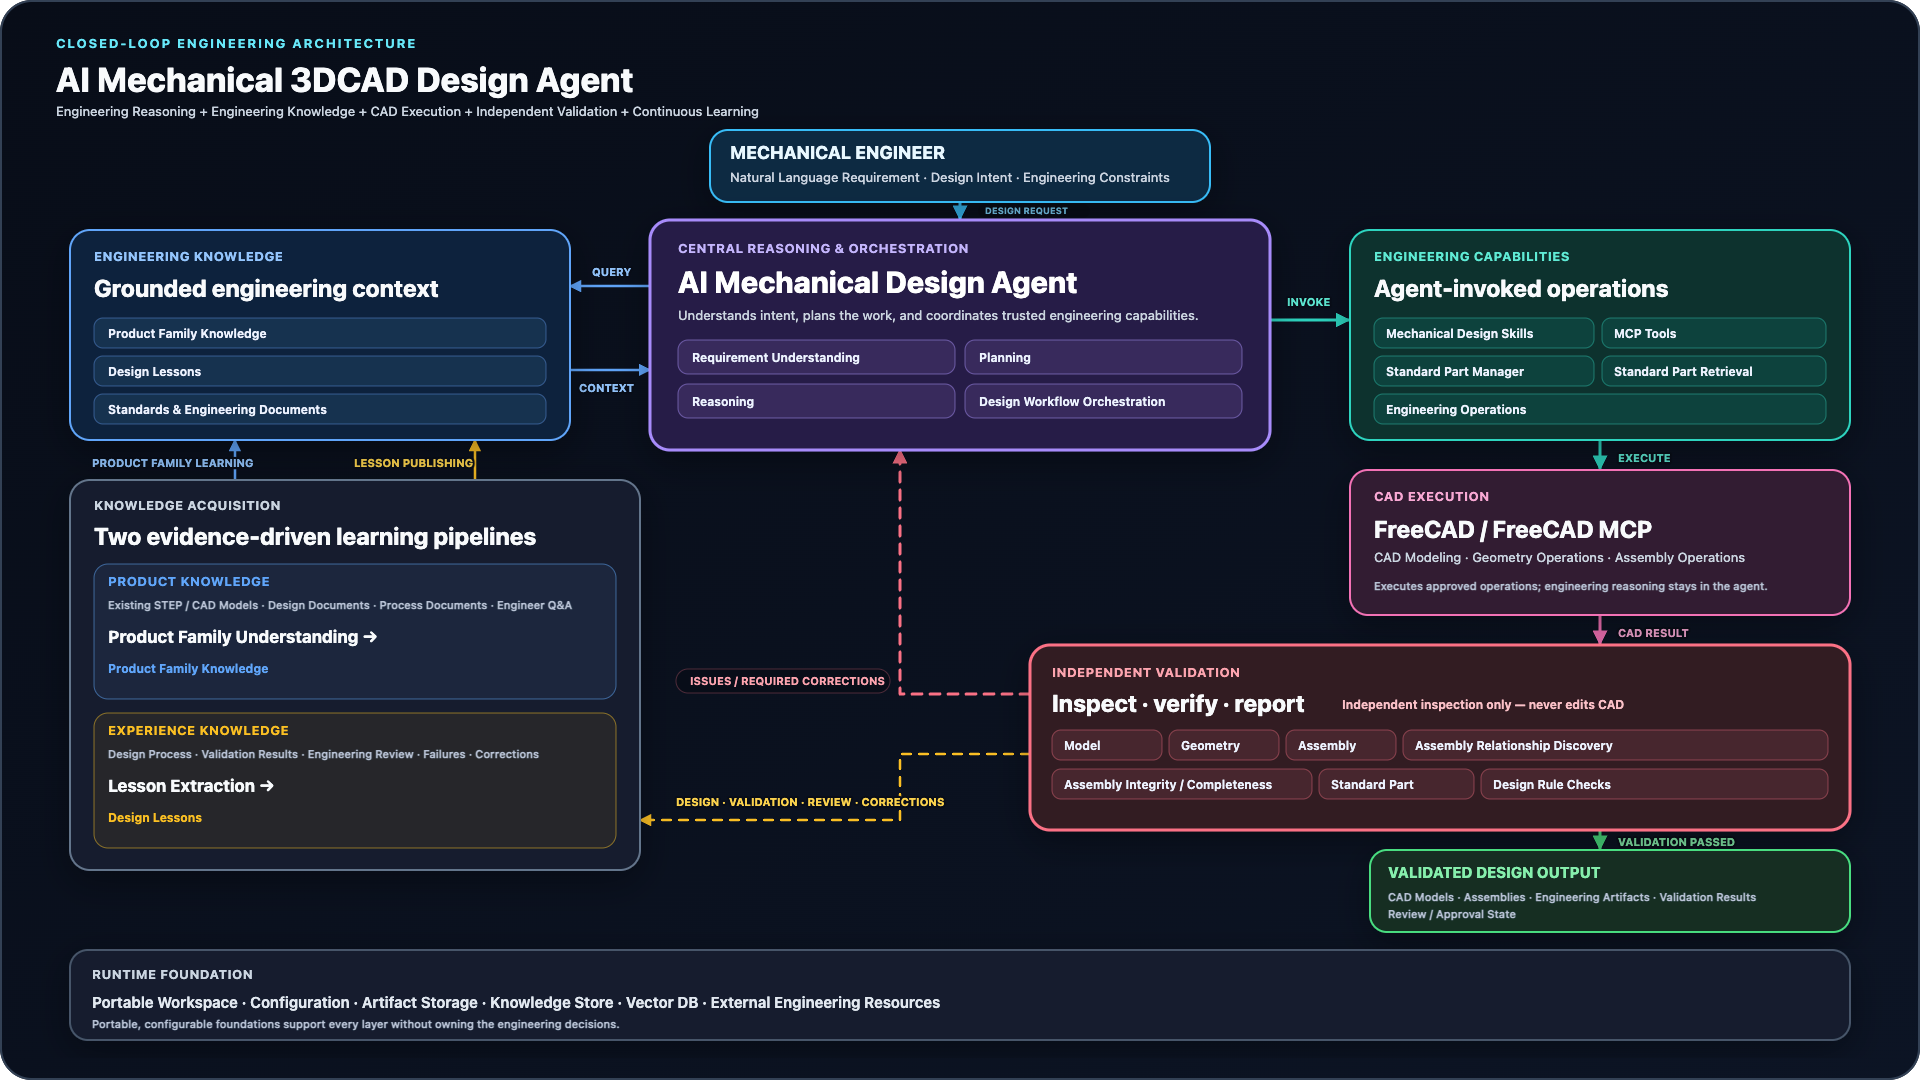
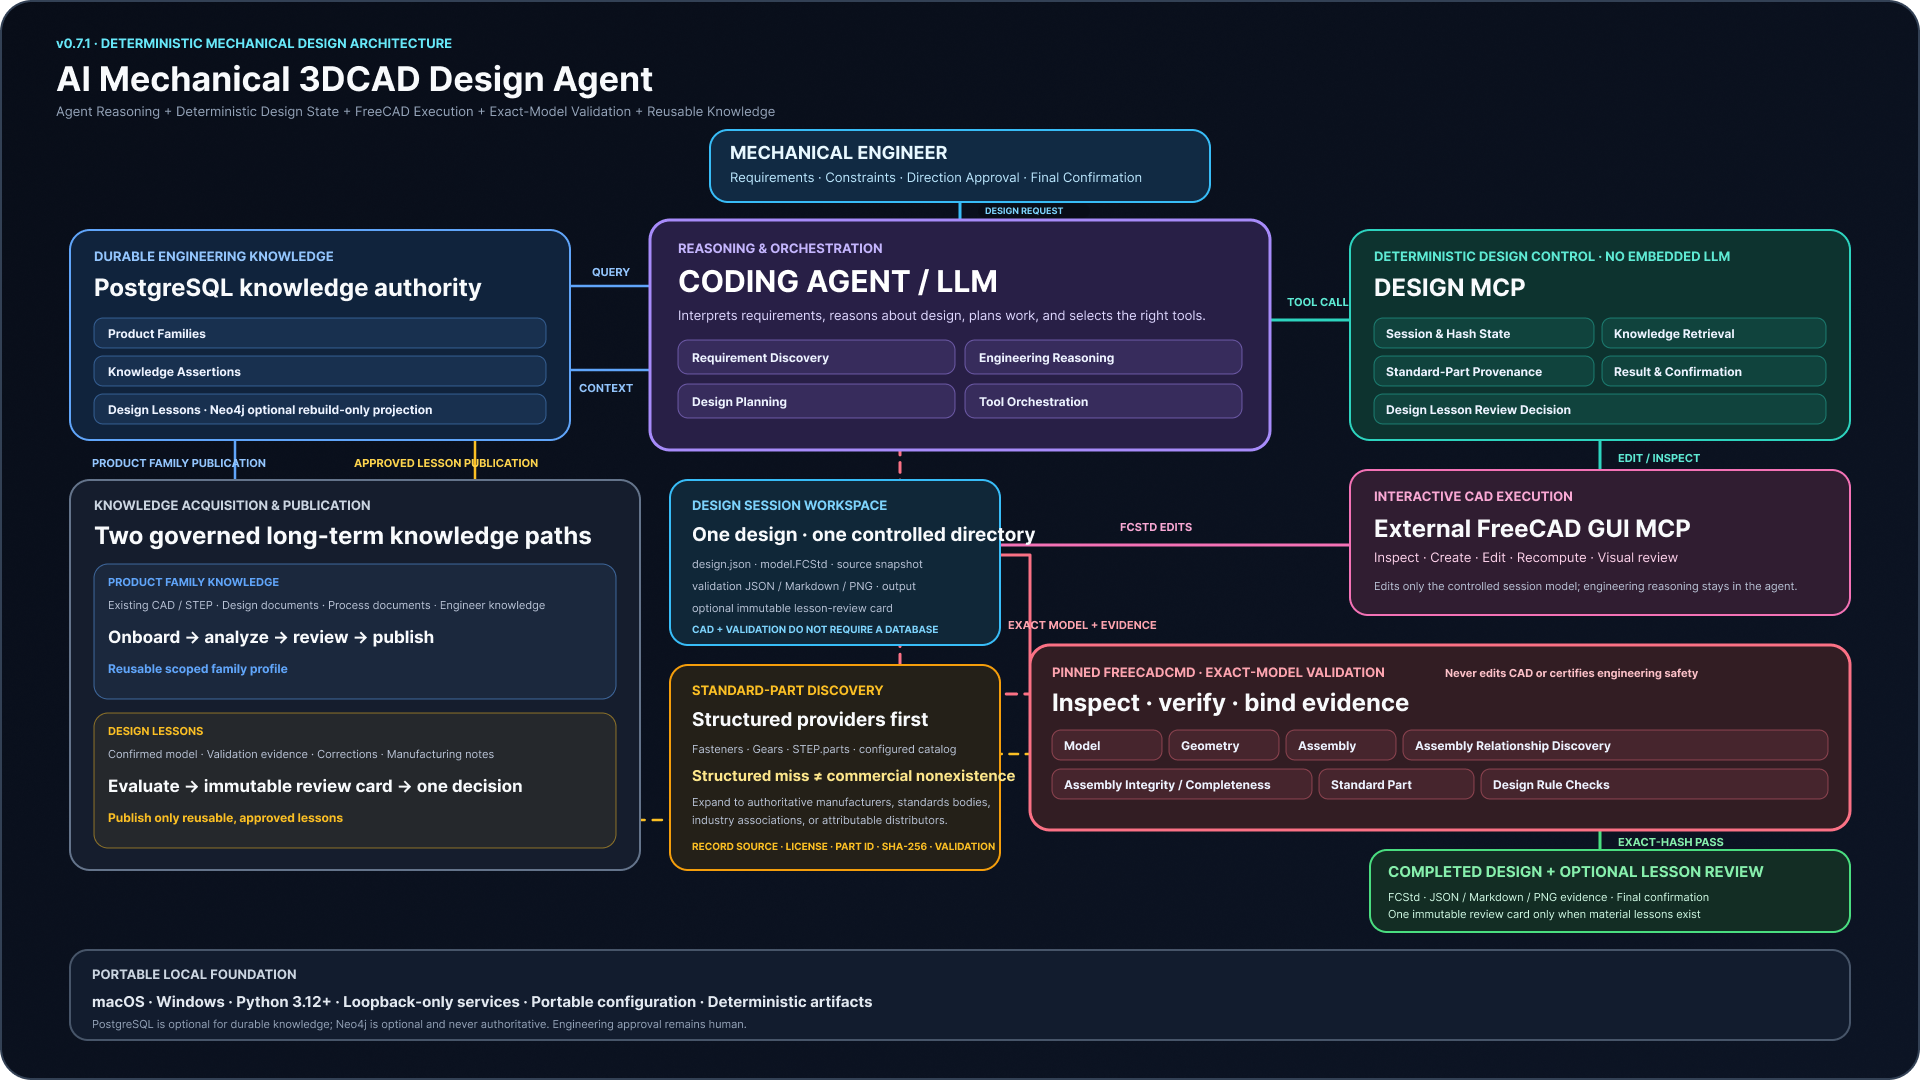
docs: update architecture diagram for v0.7.1

diff --git a/tests/test_public_release_contract.py b/tests/test_public_release_contract.py
@@ -19,7 +19,7 @@ from public_release_helpers import (
 PROJECT_ROOT = Path(__file__).resolve().parents[1]
 PUBLIC_README_ASSETS = {
     Path("docs/assets/ai-mechanical-design-agent-architecture-v2.png"):
[2 lines of base64/hex data omitted]
     Path("docs/assets/ai-mechanical-design-showcase.gif"):
[1 lines of base64/hex data omitted]
 }

diff --git a/docs/superpowers/plans/2026-09-01-v0.7.1-figma-architecture.md b/docs/superpowers/plans/2026-09-01-v0.7.1-figma-architecture.md
@@ -1,0 +1,107 @@
+# v0.7.1 Figma Architecture Diagram Implementation Plan
+
+> **For agentic workers:** REQUIRED SUB-SKILL: Use superpowers:subagent-driven-development (recommended) or superpowers:executing-plans to implement this plan task-by-task. Steps use checkbox (`- [ ]`) syntax for tracking.
+
+**Goal:** Publish a complete editable Figma architecture diagram and matching GitHub README asset for v0.7.1.
+
+**Architecture:** Preserve the existing Figma frames and build a new editable V3 frame in the same file. Export that exact frame to the repository's stable PNG path, update its integrity contract, validate the public projection, and publish the documentation commit without changing the software version.
+
+**Tech Stack:** Figma Plugin API, PNG export, Git, pytest
+
+**Spec:** `docs/superpowers/specs/2026-09-01-v0.7.1-figma-architecture-design.md`
+
+## Global Constraints
+
+- Keep the public product version at `0.7.1`.
+- Preserve the existing V1 and V2 Figma frames.
+- Use editable Figma frames, text, and vectors for V3. An imported SVG node
+  tree is acceptable when the Starter-plan MCP quota blocks further Plugin API
+  mutations.
+- Export exactly 1920×1080 to the existing public PNG path.
+- Do not add runtime dependencies or change product behavior.
+- Do not create or move a GitHub release tag.
+
+---
+
+### Task 1: Build and verify the editable V3 Figma frame
+
+**Files:**
+- External: Figma file `mIvMHJ1cGoA5mmk9YN3j8L`
+
+**Interfaces:**
+- Consumes: approved architecture content from the specification and the existing V2 visual conventions.
+- Produces: one top-level `README Architecture V3 — v0.7.1 — 1920×1080` frame and its Figma node ID.
+
+- [ ] **Step 1: Inspect the existing page, V2 frame, fonts, and top-level positions**
+
+  Use read-only Figma metadata and Plugin API inspection. Confirm the V2 frame is `11:2`, the page is `0:1`, and identify available Inter font style names.
+
+- [ ] **Step 2: Clone V2 as a V3 skeleton**
+
+  Clone `11:2`, place the clone to the right of all existing top-level frames, rename it to the required V3 name, mark it as a placeholder, and return every mutated or created node ID.
+
+- [ ] **Step 3: Update existing sections in bounded Figma calls**
+
+  Rewrite the engineer, coding-agent, durable-knowledge, Design MCP, FreeCAD GUI MCP, validation, output, and runtime text using the nodes' existing fonts. Keep every text block inside its frame and return all mutated IDs.
+
+- [ ] **Step 4: Add the design-session and standard-part sections**
+
+  Create native frame and text nodes in the center-lower space for the session workspace and two-stage standard-part discovery. Match the cloned V2 colors and typography.
+
+- [ ] **Step 5: Add labeled control and evidence connectors**
+
+  Create editable vector or line nodes for request, invoke, edit, validate, correction, retrieval, evidence, and lesson-publication flows. Keep arrows behind content cards.
+
+- [ ] **Step 6: Validate the V3 frame**
+
+  Use Figma metadata to verify one 1920×1080 V3 frame, expected named sections, no missing children, and no placeholder state. Use a full-resolution screenshot to verify legibility, no overlaps, no clipping, and complete connectors.
+
+### Task 2: Export and bind the public README asset
+
+**Files:**
+- Modify: `docs/assets/ai-mechanical-design-agent-architecture-v2.png`
+- Modify: `README.md`
+- Modify: `tests/test_public_release_contract.py`
+
+**Interfaces:**
+- Consumes: the verified V3 Figma node ID.
+- Produces: the exact public PNG and its SHA-256 contract.
+
+- [ ] **Step 1: Export the verified V3 frame**
+
+  Download the Figma node export without overriding its configured natural 1920×1080 size and write it to the stable public PNG path.
+
+- [ ] **Step 2: Verify dimensions and calculate SHA-256**
+
+  Run `sips -g pixelWidth -g pixelHeight docs/assets/ai-mechanical-design-agent-architecture-v2.png` and `shasum -a 256 docs/assets/ai-mechanical-design-agent-architecture-v2.png`. Require exactly 1920×1080.
+
+- [ ] **Step 3: Update the expected public asset digest**
+
+  Replace only the architecture PNG digest in `PUBLIC_README_ASSETS` inside `tests/test_public_release_contract.py`.
+
+### Task 3: Validate and publish the documentation update
+
+**Files:**
+- Verify: `README.md`
+- Verify: `docs/ARCHITECTURE.md`
+- Verify: `public-repository.toml`
+
+**Interfaces:**
+- Consumes: the updated PNG and SHA-256 contract.
+- Produces: a tested commit on `main` with no version or tag change.
+
+- [ ] **Step 1: Run focused tests**
+
+  Run `uv run --offline --frozen --group test pytest tests/test_public_documentation.py tests/test_public_release_contract.py -q` and require all tests to pass.
+
+- [ ] **Step 2: Run the supported offline suite**
+
+  Run `uv run --offline --frozen --group test pytest -q` and require no unexpected failures.
+
+- [ ] **Step 3: Inspect the release diff**
+
+  Run `git diff --check`, `git status --short`, verify `pyproject.toml` remains `0.7.1`, and verify `v0.7.1` still points to its original commit.
+
+- [ ] **Step 4: Commit, merge, and push**
+
+  Commit the branch as `docs: update architecture diagram for v0.7.1`, merge it into local `main`, rerun the focused verification on `main`, and push `main` to `origin` without creating a tag or release.

diff --git a/docs/superpowers/specs/2026-09-01-v0.7.1-figma-architecture-design.md b/docs/superpowers/specs/2026-09-01-v0.7.1-figma-architecture-design.md
@@ -1,0 +1,72 @@
+# v0.7.1 Figma Architecture Diagram Design
+
+## Goal
+
+Publish one complete, editable Figma architecture diagram that accurately
+describes AI Mechanical 3DCAD Design Agent v0.7.1 and replaces the stale public
+README architecture image without changing the software release version.
+
+## Source and preservation
+
+- Reuse the existing Figma design file `mIvMHJ1cGoA5mmk9YN3j8L`.
+- Preserve the existing V1 and V2 frames unchanged as historical sources.
+- Add a new top-level Figma frame named
+  `README Architecture V3 — v0.7.1 — Final Editable`.
+- Import the reviewed SVG as editable Figma text and vector nodes when the
+  Starter-plan MCP quota prevents completing the frame through Plugin API
+  mutations. Preserve incomplete V3 attempts as clearly named drafts.
+- Keep the existing dark visual language and 1920×1080 export size.
+
+## Architecture content
+
+The diagram must distinguish responsibilities rather than presenting every MCP
+tool as an independent subsystem:
+
+1. The mechanical engineer supplies requirements, constraints, direction
+   approval, and final confirmation.
+2. The coding agent or LLM performs requirement interpretation, engineering
+   reasoning, planning, and orchestration.
+3. Design MCP owns deterministic session state, knowledge retrieval,
+   standard-part registration, result recording, confirmation state, and
+   Design Lesson review decisions. It does not contain an LLM.
+4. External FreeCAD GUI MCP performs interactive CAD inspection and edits.
+5. Pinned FreeCADCmd performs controlled exact-model validation and never
+   replaces engineering judgment.
+6. Each design session keeps `design.json`, one authoritative `model.FCStd`,
+   source snapshots, validation evidence, outputs, and an optional immutable
+   lesson-review card together in its workspace.
+7. Structured standard-part providers are searched first; a structured miss
+   can expand to authoritative manufacturers, standards bodies, industry
+   associations, or attributable authorized distributors.
+8. PostgreSQL stores only Product Families, Knowledge Assertions, and Design
+   Lessons. Neo4j is an optional rebuild-only projection.
+9. Validation failures return to the agent for correction. Final confirmation
+   triggers automatic Design Lesson evaluation and, only when material lessons
+   exist, one explicit publication decision.
+
+## Visual organization
+
+- Top: engineer input and approval boundary.
+- Center: coding agent / LLM orchestration.
+- Right: Design MCP, FreeCAD GUI MCP, and pinned FreeCADCmd validation.
+- Center-lower: design-session workspace and standard-part discovery.
+- Left: durable knowledge and knowledge acquisition.
+- Bottom-right: validated design output and Design Lesson feedback.
+- Foundation: macOS and Windows, Python 3.12+, local loopback services,
+  portable configuration, and deterministic artifacts.
+
+Connectors must name the important control and evidence flows. The diagram must
+not claim that pgvector, Neo4j, PostgreSQL, or any remote service is required for
+CAD creation and validation.
+
+## Publication
+
+- Export the V3 frame as a 1920×1080 PNG.
+- Replace `docs/assets/ai-mechanical-design-agent-architecture-v2.png` so the
+  README keeps its stable path.
+- Keep the architecture image visible in the README Architecture section.
+- Update the public asset SHA-256 contract.
+- Run focused documentation and public-release tests, then the supported
+  offline test suite.
+- Commit the documentation change, merge it into `main`, and push `main`.
+- Keep version `0.7.1`; do not create or move a release tag.

diff --git a/README.md b/README.md
@@ -69,6 +69,8 @@ Neo4j projection rebuilds.
 
 ## Architecture
 
+![AI Mechanical 3DCAD Design Agent architecture](docs/assets/ai-mechanical-design-agent-architecture-v2.png)
+
 Design sessions live under `designs/<design-id>/` as atomic JSON state, one
 authoritative `model.FCStd`, optional source snapshots, validation evidence,
 outputs, and an optional lesson review card. CAD creation and validation do not
